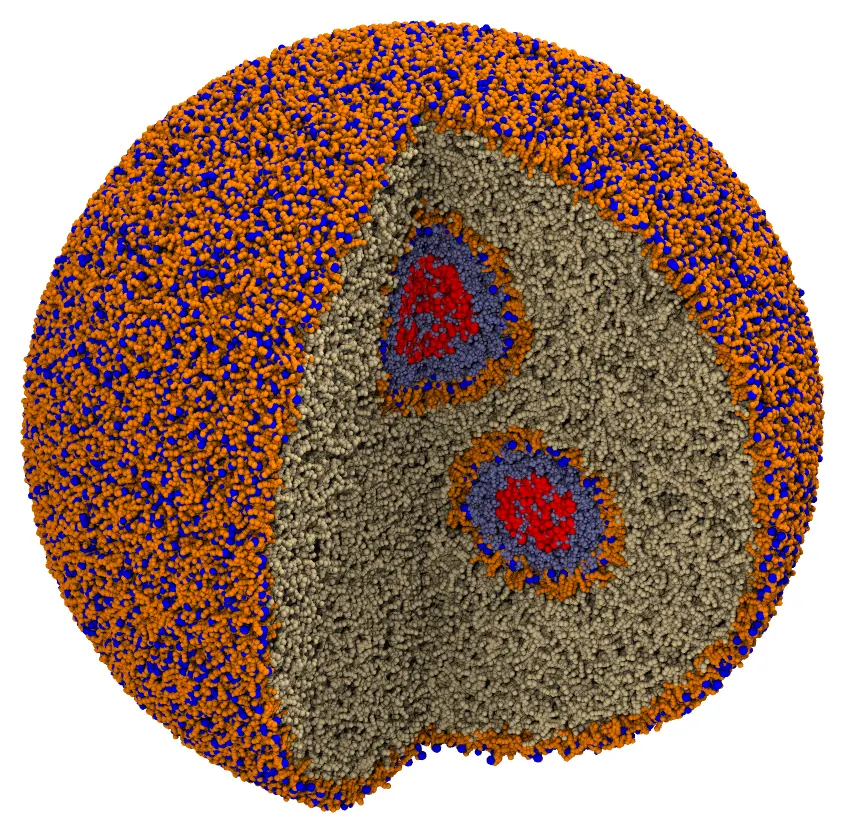
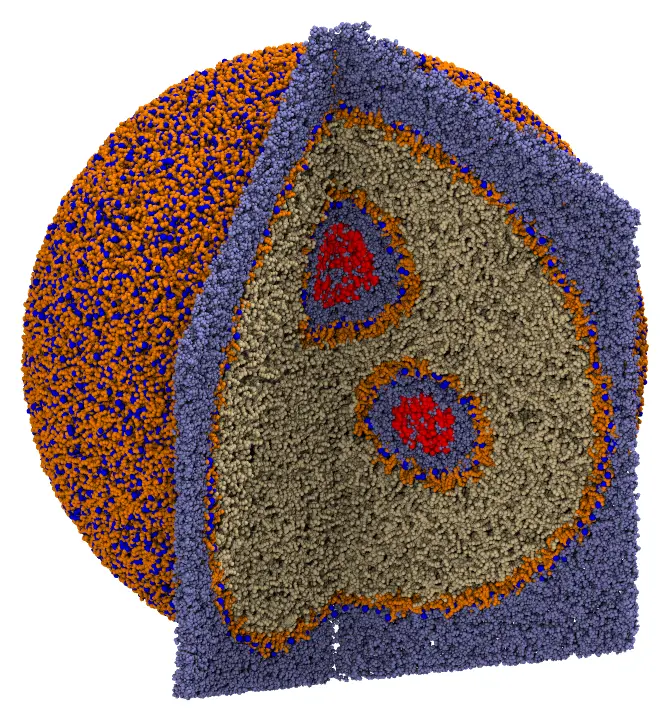
LNP tutorial: water walls in the image, the confirmation of the lipids, radscale tip
The main image shows the water outside as two walls along the faces of the cut. The
Martini attempt is no longer mentioned: users provide their molecules, and the agent
confirms how they are oriented. The adjustment of radscale is explained, in a tip, and
in the practical advice of the AI agent page.

Claude-Session: https://claude.ai/code/session_01CXddAw4T6Ean6ekQ8DQaFR

diff --git a/docs/src/tutorials/lnp.md b/docs/src/tutorials/lnp.md
@@ -14,9 +14,10 @@ a real LNP.
 
 ![Lipid nanoparticle](images/lnp.webp)
 
-*The nanoparticle with a quarter cut out (the water outside is not shown): the heads
-(blue) and the chains (orange) of the lipids of the monolayers, the lipid phase (tan), and,
-in the compartments, water (light blue) and RNA (red).*
+*The nanoparticle with a quarter cut out: the heads (blue) and the chains (orange) of the
+lipids of the monolayers, the lipid phase (tan), and, in the compartments, water (light
+blue) and RNA (red). Of the water outside, only two walls along the faces of the cut are
+shown, up to the faces of the periodic cell.*
 
 The files are the `packmol_lnp` set of
 [MolSimTestFiles](https://github.com/m3g/MolSimTestFiles): download and extract
@@ -46,11 +47,13 @@ The agent read the illustration, proposed a geometry (the sizes and the position
 compartments, the shells of the lipids), and estimated the numbers of molecules. The
 design was then corrected and simplified in a few exchanges:
 
-- **The lipids.** A first attempt with simplified lipids of the Martini model, built by
-  the agent, including PEG-lipids, ran into problems with the geometry of the PEG-lipids,
-  and was dropped. The lipids and the water of SIRAH of the [Zika virion](zika.md)
-  tutorial, already tested with Packmol, were used instead: POPC, POPE and POPS, 60:30:10,
-  and the WT4 water.
+- **The molecules.** The structures of the molecules are for the user to provide: an
+  agent can build rough models, but not ones fit for a simulation. Here, the lipids and
+  the water of SIRAH of the [Zika virion](zika.md) tutorial were used: POPC, POPE and
+  POPS, 60:30:10, and the WT4 water. Before building anything, the agent confirmed with
+  the user how the lipids are oriented by the constraints: the head bead (bead 1) and the
+  end of a chain (bead 16, or 17 in POPS), from the structure files and the input of the
+  Zika virion.
 - **The layers.** The layers of the illustration are monolayers, with the chains of the
   lipids pointing to the lipid phase between them: heads outwards in the outer layer,
   inwards (towards the water) in the compartments.
@@ -72,11 +75,26 @@ design was then corrected and simplified in a few exchanges:
   nucleotide, of 1500, 1000 and 700 nucleotides, with the size that fits in each
   compartment (placeholders: a real structure of a coarse-grained mRNA would replace them),
   fixed at the centers of the compartments.
-- **A problem in the packing.** The first loop of the packing of the whole system did
-  not finish in 10 minutes. The POPC of the lipid phase started with its radii
-  scaled by 5 (as those of the lipids of the monolayers, to spread them over their
-  surfaces), and the agent proposed a few alternatives; the one chosen was to start it
-  at its radii. With that, the system packed in 5 minutes.
+- **The scale of the radii.** The lipids of the monolayers start the packing with their
+  radii scaled by 5 (`radscale 5.0` in their structure blocks; the default for molecules
+  of up to 20 beads is 1), so that they spread over their surfaces before they settle
+  (see [Structure blocks](@ref)). The POPC of the lipid phase was first given the same
+  scale, and the first loop of the packing did not finish in 10 minutes, most likely
+  because, inflated five-fold, it does not fit in its region, which is enclosed by the
+  monolayers. The
+  agent proposed a few alternatives; the one chosen was to start it at its radii. With
+  that, the system packed in 5 minutes.
+
+!!! tip "The scale of the radii at the start"
+    `radscale` scales the radii of the atoms at the start of the packing, decaying to
+    their values in the first loops. Inflated molecules repel each other from farther,
+    which spreads them over their regions: it is what lipids in a layer need, and
+    Packmol uses it by default for molecules of more than 20 atoms (SIRAH lipids have
+    16 or 17 beads, so it is set here). But molecules that fill an enclosed region
+    densely, as the lipid phase here, may not fit in it inflated, and the first loops
+    make no progress: start those at their radii (`radscale 1.0`, the default for
+    small molecules). When the first loop of a packing does not end, look at the
+    `radscale` of the molecules of the crowded regions.
 
 The illustration helped the agent understand what was wanted, but the decisions that
 mattered were made in the conversation: what to simplify, which models to use, what to

diff --git a/docs/src/tutorials/ai_agent.md b/docs/src/tutorials/ai_agent.md
@@ -24,7 +24,11 @@ itself:
 - **The molecules.** Give PDB IDs, file names, or names of molecules the agent can build
   (water, ions, common solvents); say which chains, ligands or waters of a PDB structure to
   keep. For lipids, name them: the [Membrane recipe](@ref "Membrane system") has
-  conformations of POPC, POPE, POPS, POPG, DPPC, DOPC and DMPC.
+  conformations of POPC, POPE, POPS, POPG, DPPC, DOPC and DMPC. Provide the structures of
+  the molecules the agent cannot get reliably (coarse-grained models, molecules of a
+  specific force field): it can build rough models, but not ones fit for a simulation.
+  Have it confirm with you which atoms orient each molecule (the head and the chain ends
+  of a lipid, for example) before it builds the system.
 - **The amounts.** Numbers of molecules, or what determines them: a density, a
   concentration (mol/L, molality, mole fraction), a salt concentration, the neutralization
   of a charged protein, an area per lipid. The agent can compute the numbers.
@@ -204,6 +208,14 @@ Public functions, not exported (call them with the `Packmol.` prefix):
 ### Practical advice
 
 - The tolerance of 2.0 Å is the usual one for all-atom systems.
+- `radscale` (in an input file, globally or per structure block; `radscale` keyword of
+  `structure_type`) scales the radii of the atoms at the start of the packing, decaying to
+  their values in the first loops (`radscale_decay_loops`, 20). The default is 5.0 for free
+  molecules of more than 20 atoms, which spreads lipids over their layers, and 1.0 for the
+  others. Set 5.0 for lipids of fewer atoms (coarse-grained lipids) in layers; keep 1.0 for
+  molecules that fill an enclosed region densely (a lipid phase between layers, for
+  example), which may not fit in it inflated. If the first loop of a packing does not
+  end, check the `radscale` of the molecules of the crowded regions.
 - Rigid molecules are packed as given: prefer compact, extended conformations. Lipids pack
   fastest when straight, with the chains side by side, and with the head atoms constrained to
   a narrow band (the `Membrane` recipe does this). Bilayers of extended lipids are thicker
